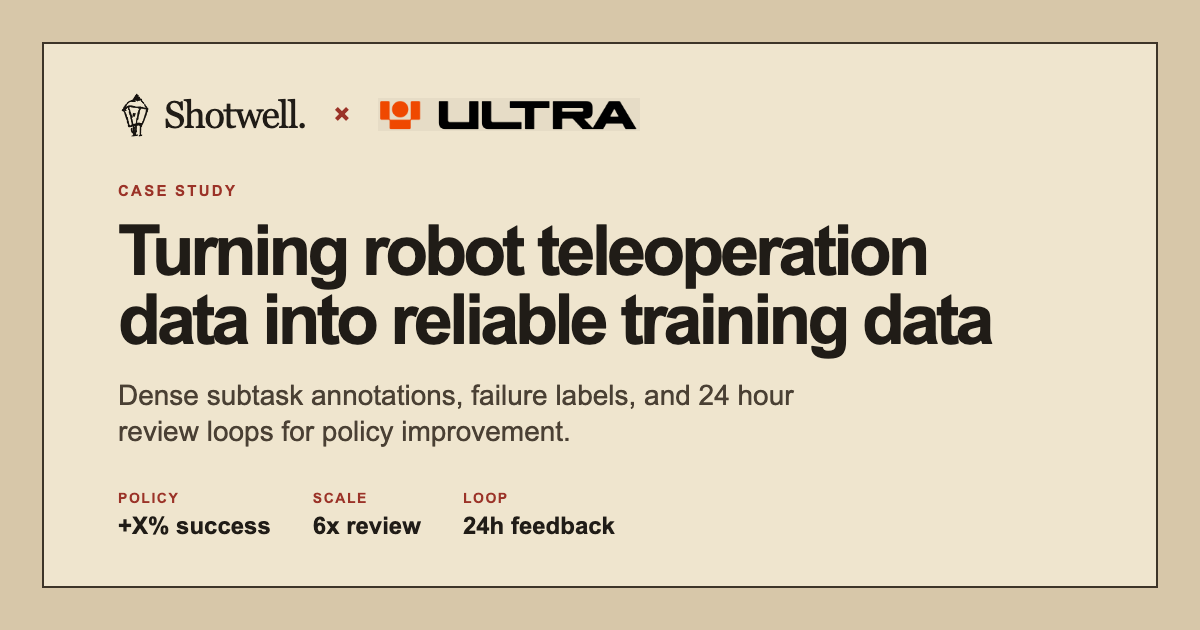
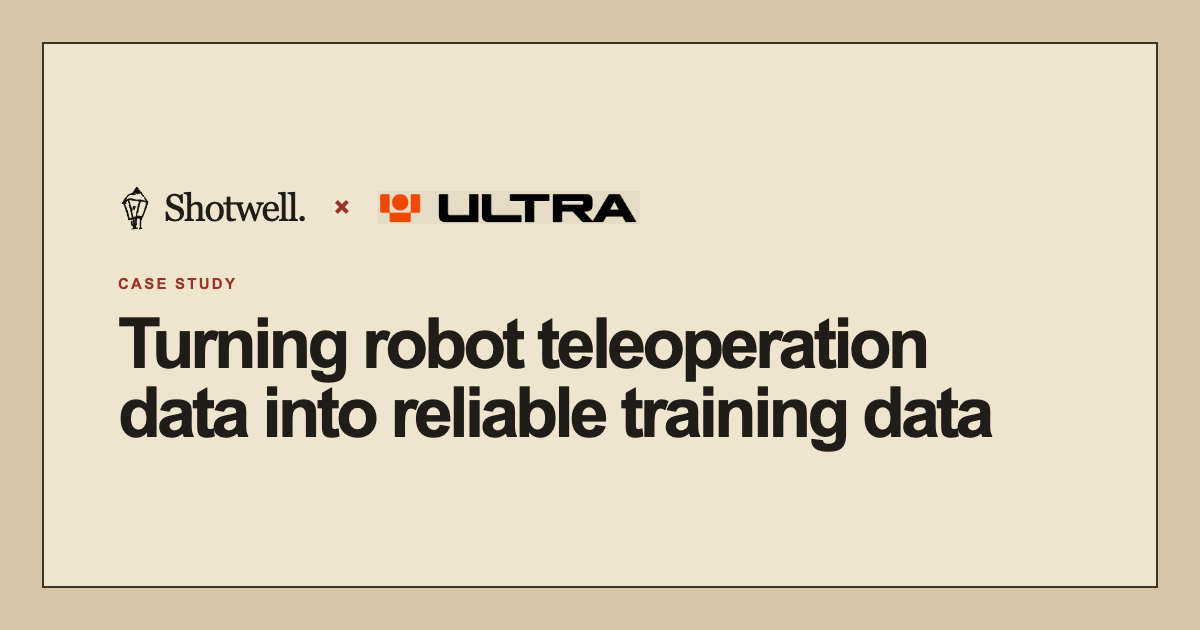
Simplify Ultra social card copy

diff --git a/ultra-case-study/og-image.html b/ultra-case-study/og-image.html
@@ -63,34 +63,6 @@
       line-height: .98;
       letter-spacing: -.055em;
     }
-    .subline {
-      max-width: 720px;
-      margin: 24px 0 0;
-      color: #4a4034;
-      font-size: 28px;
-      line-height: 1.28;
-    }
-    .outcomes {
-      display: grid;
-      grid-template-columns: repeat(3, max-content);
-      gap: 42px;
-      margin-top: 40px;
-    }
-    .outcome {
-      display: grid;
-      gap: 6px;
-    }
-    .outcome b {
-      color: #9b3328;
-      text-transform: uppercase;
-      letter-spacing: .11em;
-      font-size: 14px;
-    }
-    .outcome span {
-      font-size: 24px;
-      line-height: 1.18;
-      font-weight: 800;
-    }
   </style>
 </head>
 <body>
@@ -106,12 +78,6 @@
       </div>
       <p class="kicker">Case study</p>
       <h1>Turning robot teleoperation data into reliable training data</h1>
-      <p class="subline">Dense subtask annotations, failure labels, and 24 hour review loops for policy improvement.</p>
-      <div class="outcomes">
-        <div class="outcome"><b>Policy</b><span>+X% success</span></div>
-        <div class="outcome"><b>Scale</b><span>6x review</span></div>
-        <div class="outcome"><b>Loop</b><span>24h feedback</span></div>
-      </div>
     </section>
   </main>
 </body>
